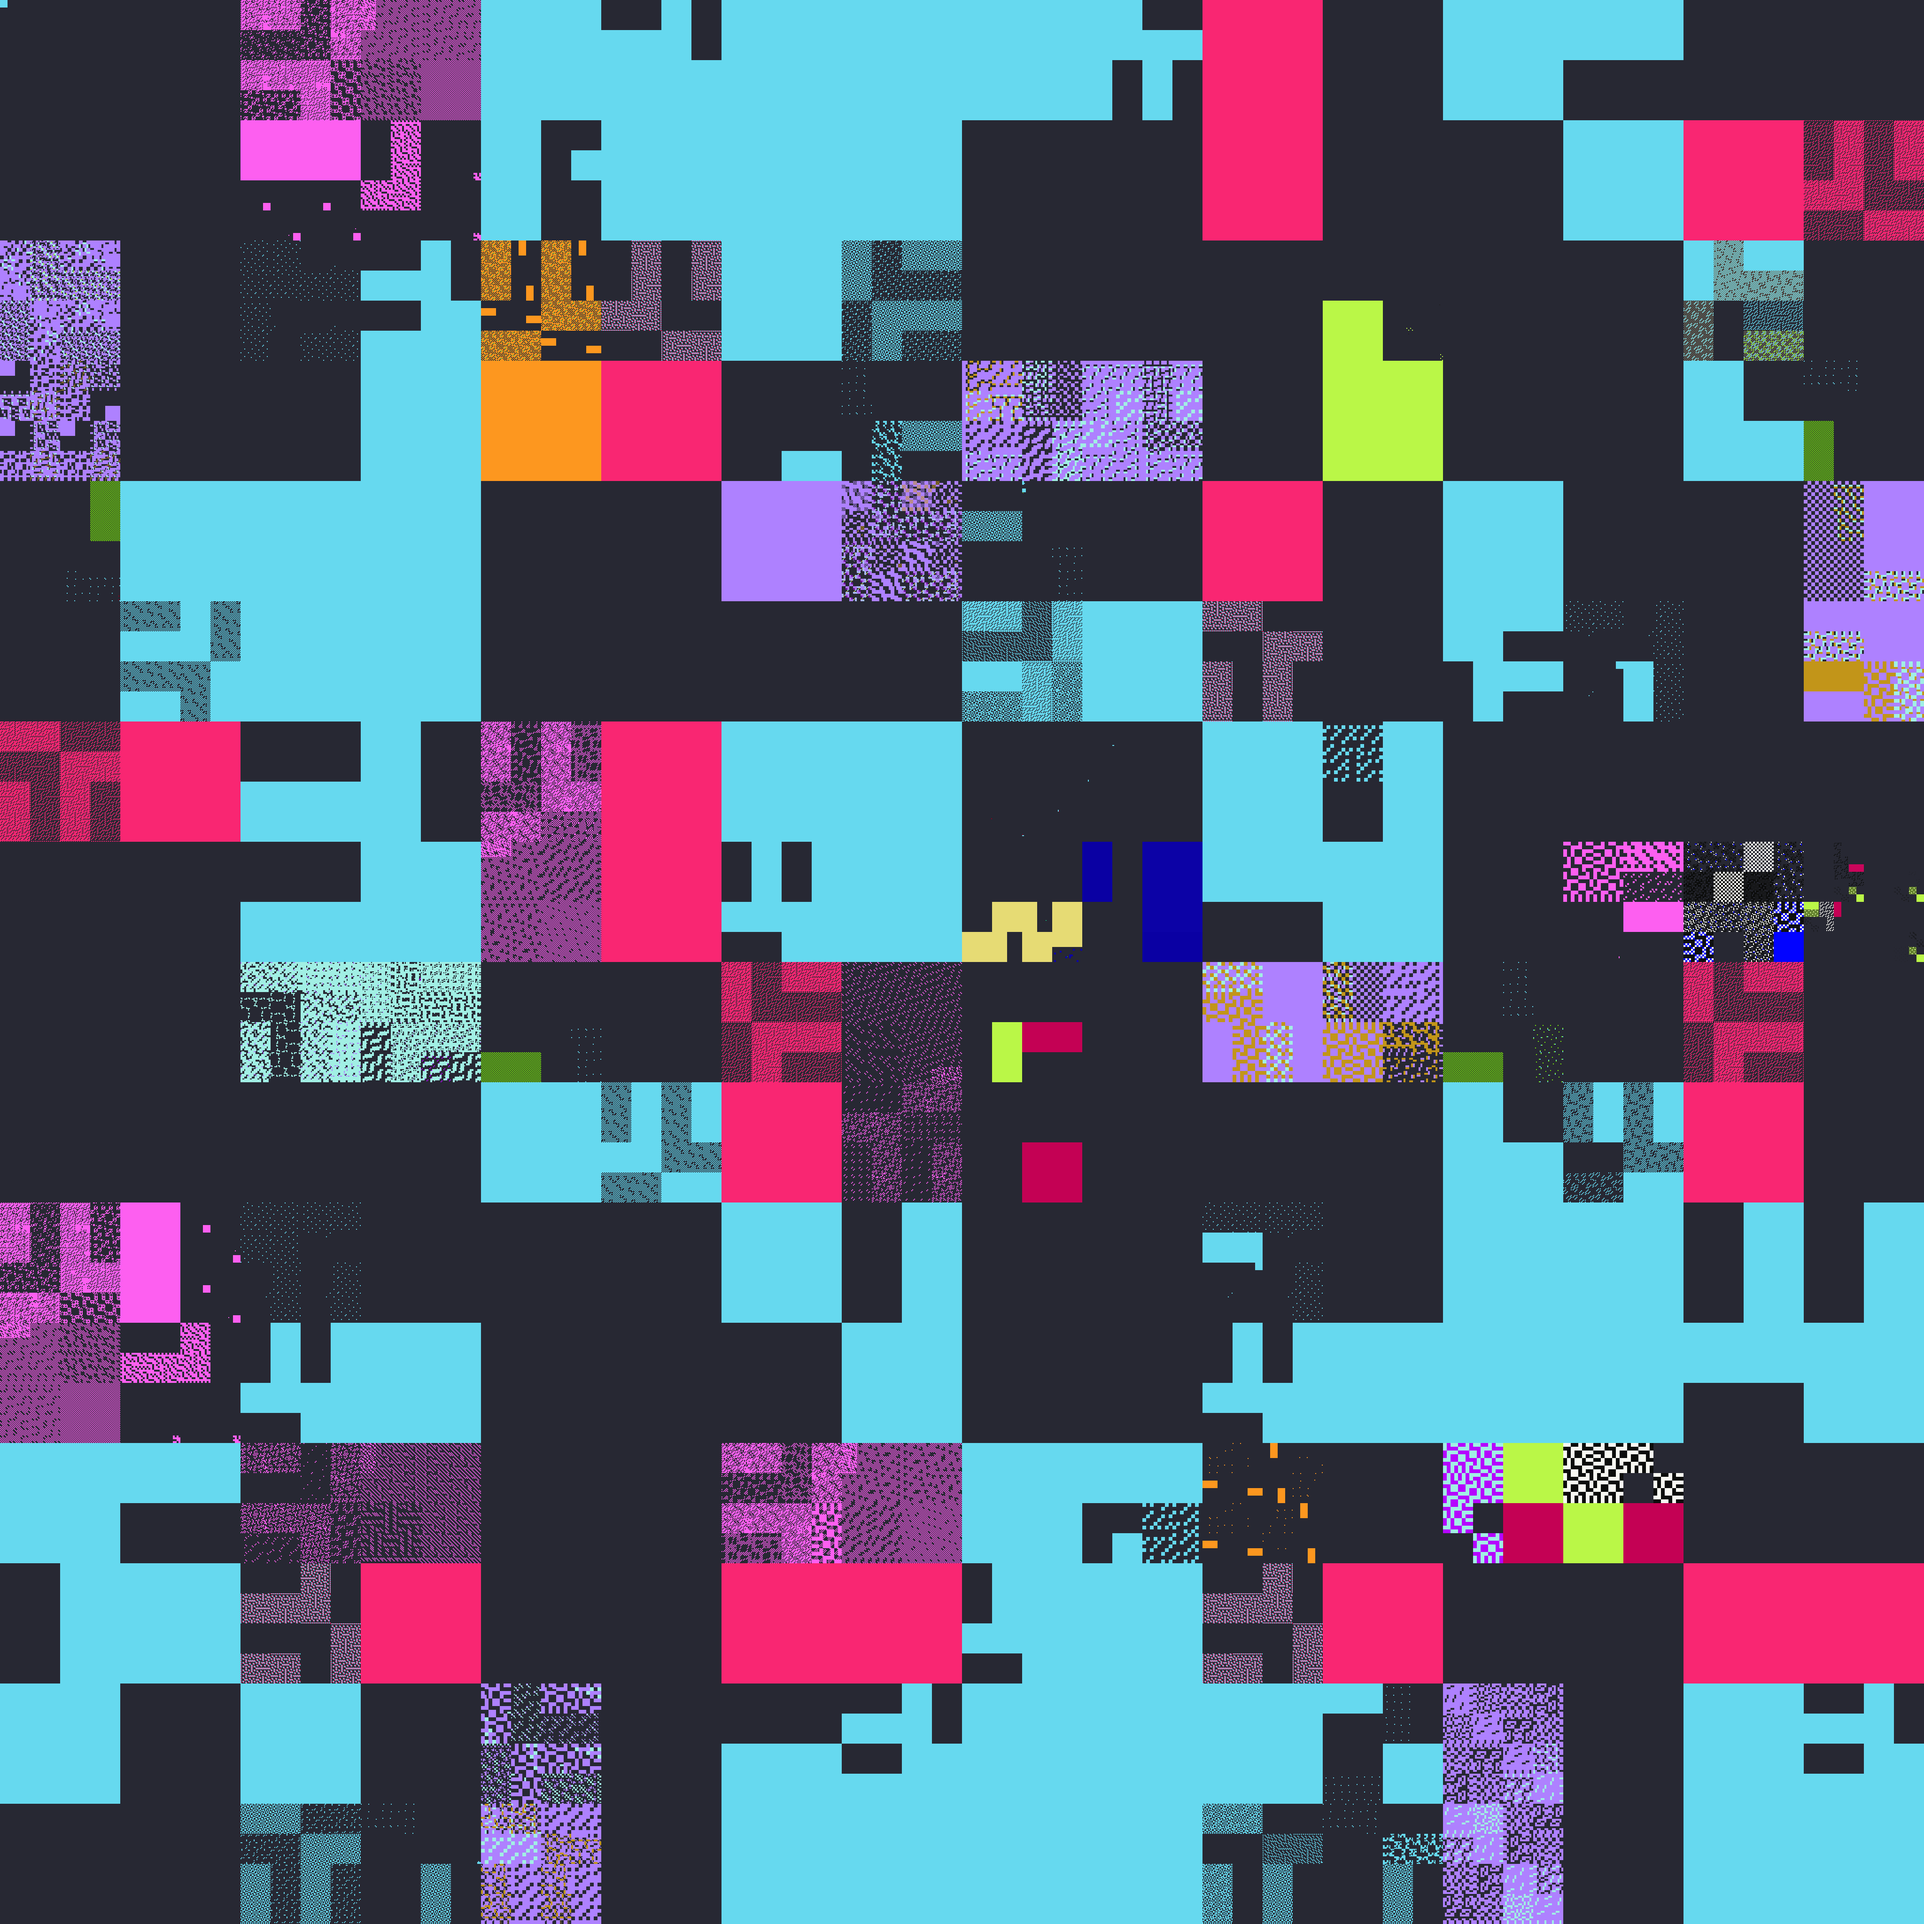
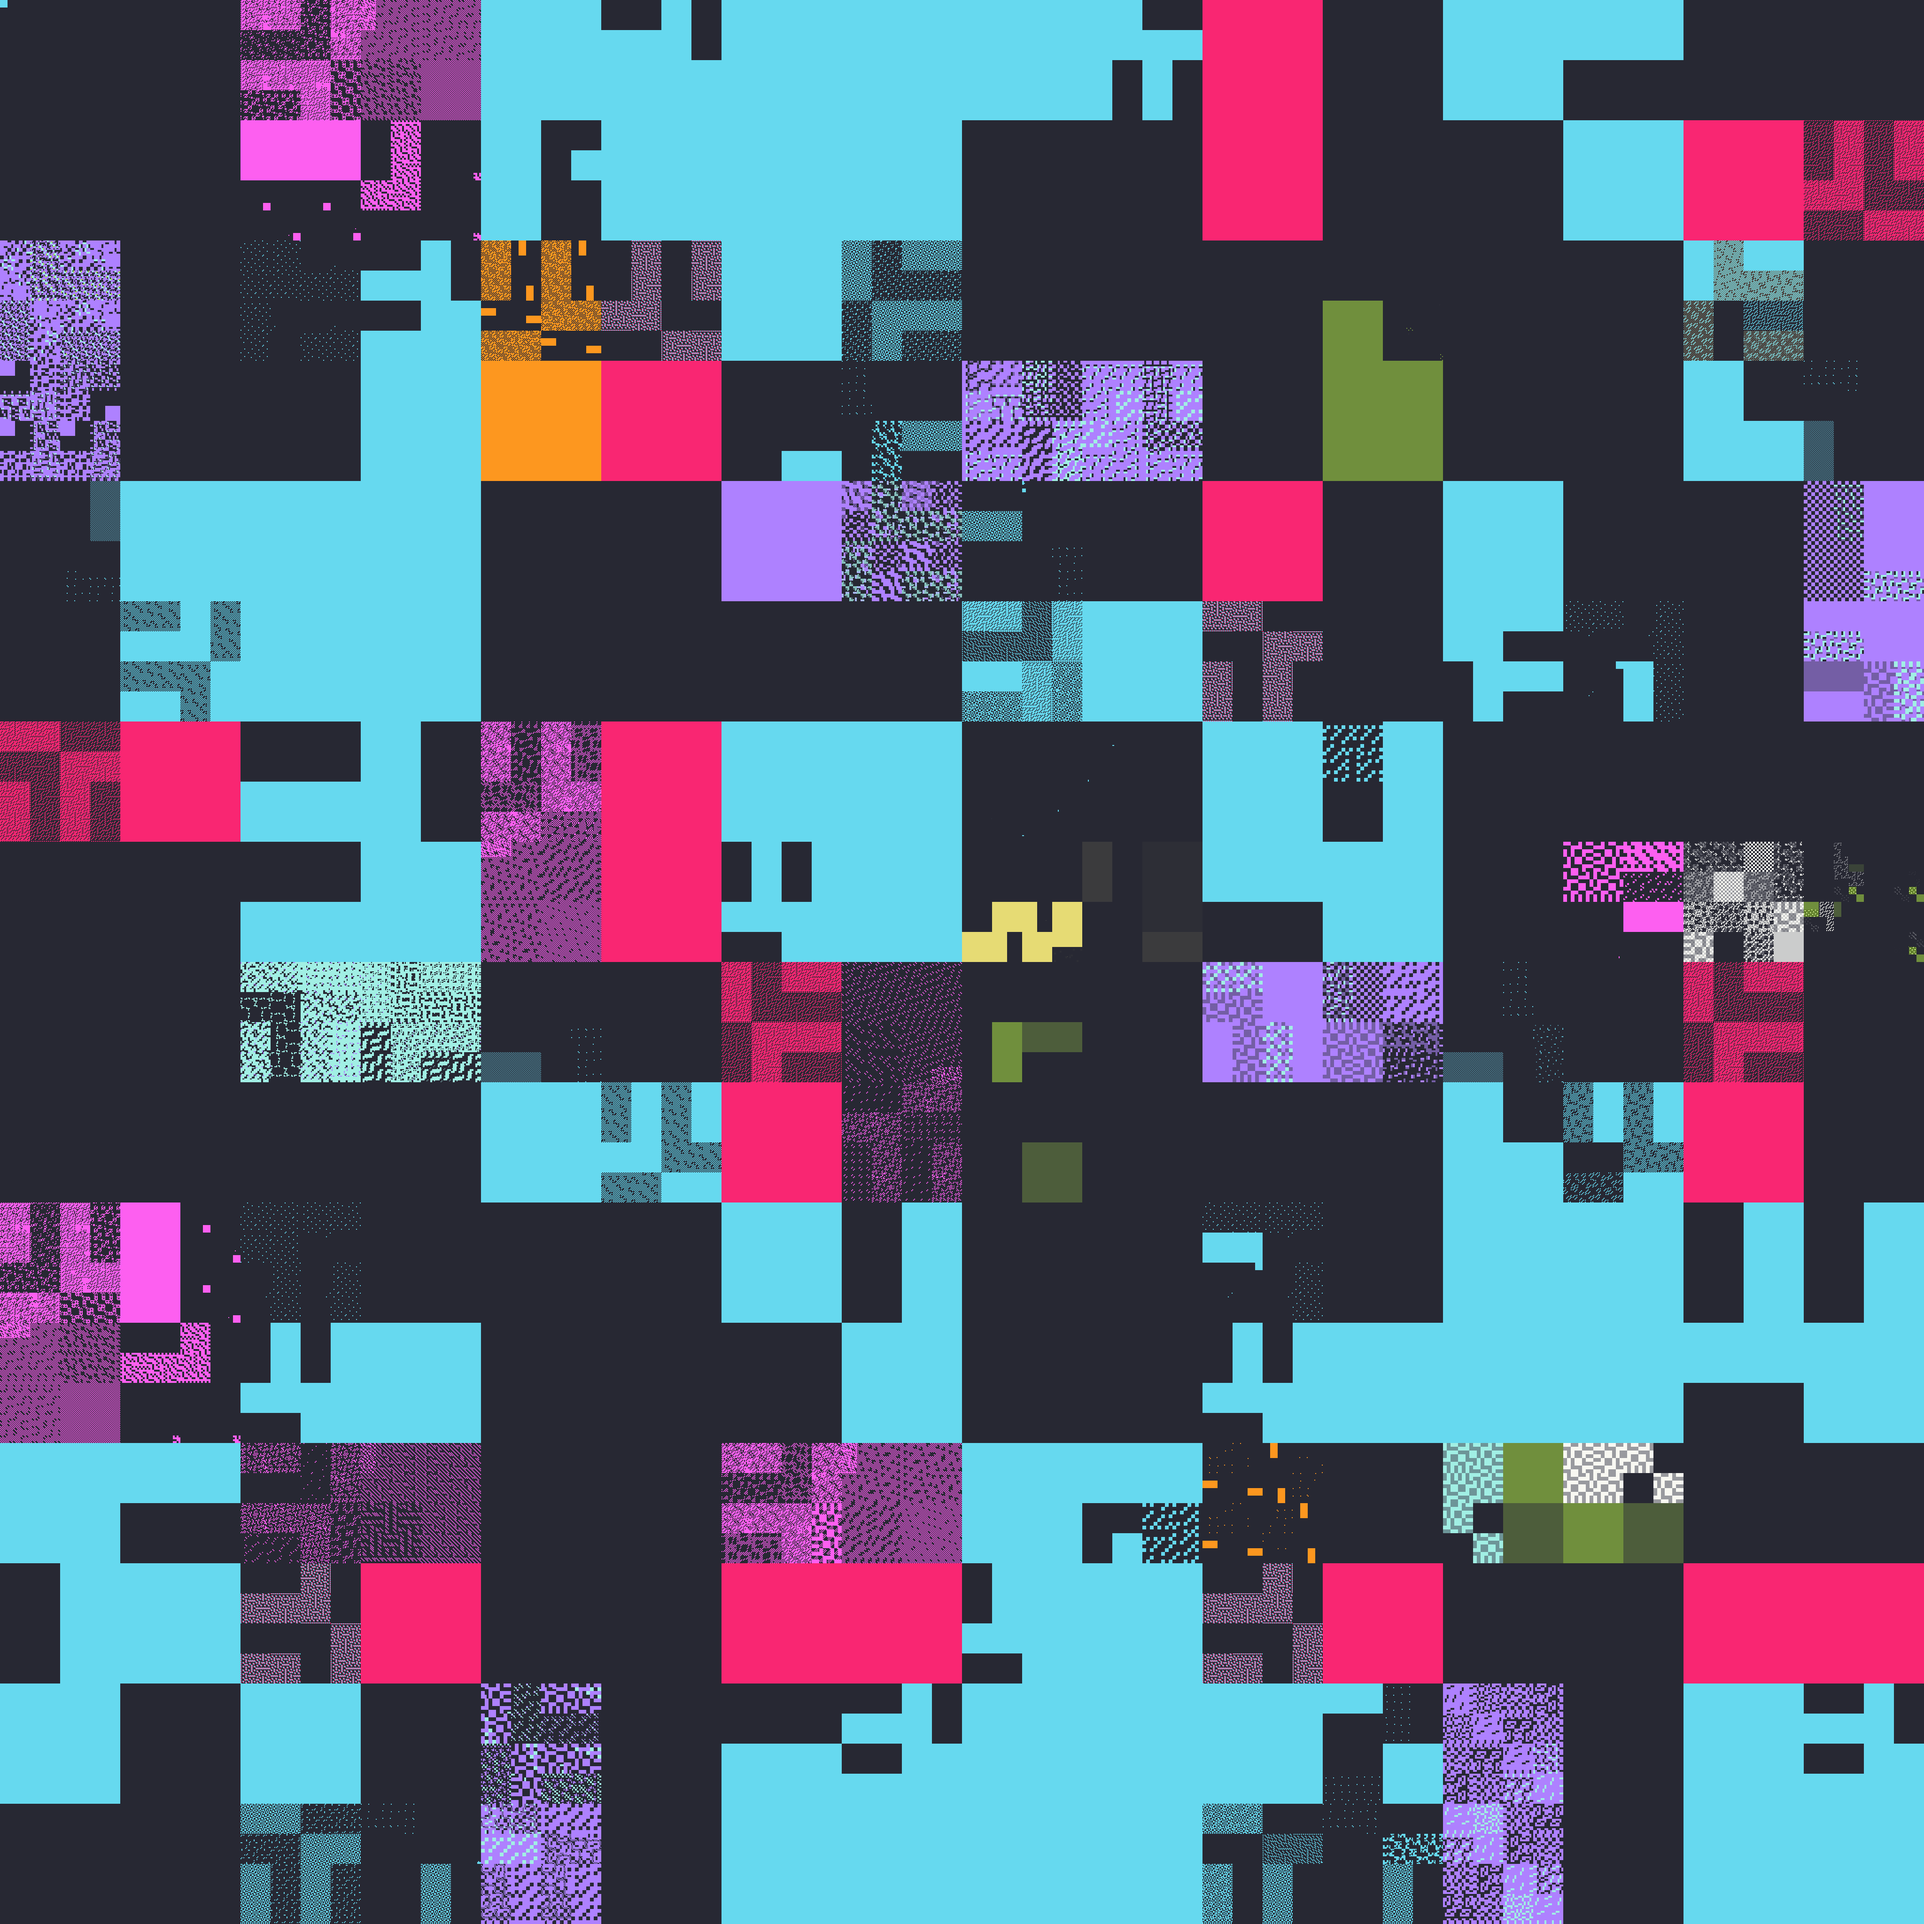
Fix transparency

diff --git a/cmd/arm-vis/main.go b/cmd/arm-vis/main.go
@@ -87,16 +87,13 @@ func main() {
 
 	img := image.NewRGBA(image.Rectangle{image.Point{0, 0}, image.Point{width, height}})
 	bg := image.NewRGBA(image.Rectangle{image.Point{0, 0}, image.Point{width, height}})
-	overlays := make(map[uint8]*image.RGBA)
 
 	if _, ok := themes[*themename]; !ok {
 		log.Fatalf("theme %s does not exist", *themename)
 	}
 	theme := themes[*themename]
 
-	for i := range theme.colors {
-		overlays[i] = image.NewRGBA(image.Rectangle{image.Point{0, 0}, image.Point{width, height}})
-	}
+	overlay := image.NewRGBA(image.Rectangle{image.Point{0, 0}, image.Point{width, height}})
 
 	// Fill background
 	for x := 0; x < width; x++ {
@@ -123,17 +120,18 @@ func main() {
 				}
 				c.A = uint8(a - 1)
 				if c.A > 0 {
-					overlays[uint8(i)].Set(int(x), int(y), c)
+					_, _, _, a := overlay.At(int(x), int(y)).RGBA()
+					if c.A > uint8(a) {
+						overlay.Set(int(x), int(y), c)
+					}
 				}
 				break
 			}
 		}
 	}
 
-	draw.Over.Draw(img, img.Bounds(), bg, image.Point{})
-	for _, o := range overlays {
-		draw.Over.Draw(img, img.Bounds(), o, image.Point{})
-	}
+	draw.Draw(img, img.Bounds(), bg, image.Point{0, 0}, draw.Src)
+	draw.DrawMask(img, img.Bounds(), overlay, image.Point{0, 0}, overlay, image.Point{0, 0}, draw.Over)
 
 	// Encode as PNG.
 	of, err := os.Create(*out)
